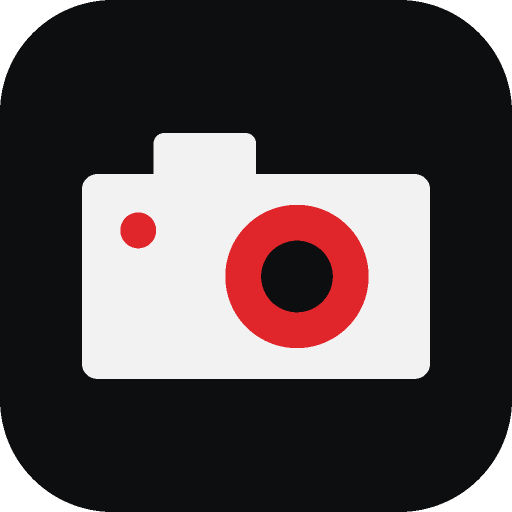
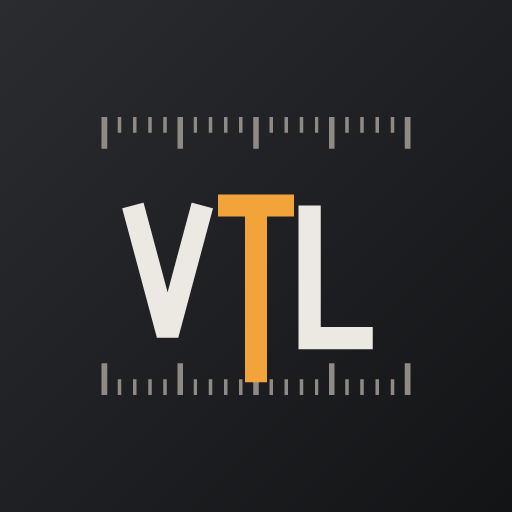
preview29

diff --git a/js/ui/brand.js b/js/ui/brand.js
@@ -1,0 +1,59 @@
+// The VidTooList brand, drawn as a cine lens: the name sits between a focus scale above and an iris
+// ring below. VID's I is the amber focus witness line reaching up to the focus scale; LIST's I is turned
+// over, its dot below, reaching down to the iris ring; the double O is the ∞ engraved on a focus ring.
+// The app icon (V2) is the initials VTL in the same language, the T the witness line between the scales.
+
+// The engraved ∞: a lemniscate that crosses in the middle (two touching rings read as spectacles).
+const LEM = (() => {
+  const p = [];
+  for (let i = 0; i <= 72; i++) {
+    const t = (i / 72) * 2 * Math.PI, d = 1 + Math.sin(t) ** 2;
+    p.push(`${(12 + (11 * Math.cos(t)) / d).toFixed(2)} ${(6 + (13.75 * Math.sin(t) * Math.cos(t)) / d).toFixed(2)}`);
+  }
+  return `M${p.join(' L')}Z`;
+})();
+const inf = (cx, cy, w, sw, attrs) => {
+  const k = w / 22;
+  return `<path transform="translate(${(cx - 12 * k).toFixed(2)} ${(cy - 6 * k).toFixed(2)}) scale(${k.toFixed(3)})" d="${LEM}" fill="none" stroke-width="${(sw / k).toFixed(3)}" stroke-linejoin="round" ${attrs}/>`;
+};
+// a straight scale: a tick every `step`, a long one every fifth
+const ticks = (x0, x1, y, step, h, hMaj, dir, attrs) => {
+  let s = '';
+  for (let n = 0, x = x0; x <= x1 + 0.01; x += step, n++) {
+    const len = n % 5 === 0 ? hMaj : h;
+    s += `<line x1="${x.toFixed(1)}" y1="${y}" x2="${x.toFixed(1)}" y2="${y + dir * len}" stroke-width="${n % 5 === 0 ? 1.8 : 1.1}" ${attrs}/>`;
+  }
+  return s;
+};
+
+const F = `font-family="'Barlow Condensed', sans-serif" font-weight="500" font-size="54" text-anchor="middle"`;
+const letter = (x, ch) => `<text x="${x}" y="58" ${F} class="wm-ink">${ch}</text>`;
+
+// The wordmark for the top bar, 300×76. Colours come from the page (class names, see style.css).
+export function wordmark(label = 'VidTooList') {
+  return `<svg class="wmk" viewBox="0 0 300 76" role="img" aria-label="${label}">`
+    + `<g class="wm-tick">${ticks(4, 296, 2, 5.84, 5, 9, 1, '')}${ticks(4, 296, 74, 5.84, 5, 9, -1, '')}</g>`
+    + letter(16, 'V') + letter(70, 'D') + letter(100, 'T')
+    + inf(152, 39, 50, 3.2, 'class="wm-inf"')
+    + letter(204, 'L') + letter(254, 'S') + letter(282, 'T')
+    // VID's I: the focus witness line, dot on top, reaching the focus scale
+    + `<g class="wm-acc"><rect x="41.6" y="18" width="5" height="40"/><rect x="43.1" y="2" width="2" height="12"/><circle cx="44.1" cy="12.5" r="3.4"/>`
+    // LIST's I, turned over: dot below, reaching the iris ring
+    + `<rect x="226.4" y="20" width="5" height="40"/><circle cx="228.9" cy="65" r="3.4"/><rect x="227.9" y="66" width="2" height="8"/></g>`
+    + '</svg>';
+}
+
+// The app icon (V2), on a 120 box: VTL between the scales, the amber T crossing from one to the other.
+// `inset` shrinks the drawing toward the centre so it survives a maskable crop.
+export function iconSVG({ size = 512, inset = 0.74, bg = true } = {}) {
+  const fg = '#ECE9E2', mut = '#8f8b84', amber = '#F2A33A';
+  return `<svg xmlns="http://www.w3.org/2000/svg" width="${size}" height="${size}" viewBox="0 0 120 120">`
+    + (bg ? '<defs><linearGradient id="g" x1="0" y1="0" x2="1" y2="1"><stop offset="0" stop-color="#2a2c30"/><stop offset="1" stop-color="#131416"/></linearGradient></defs><rect width="120" height="120" fill="url(#g)"/>' : '')
+    + `<g transform="translate(60 60) scale(${inset}) translate(-60 -60)">`
+    + ticks(12, 108, 16, 4.8, 5, 10, 1, `stroke="${mut}"`)
+    + ticks(12, 108, 104, 4.8, 5, 10, -1, `stroke="${mut}"`)
+    + `<path d="M21 44 L32 85 L43 44" fill="none" stroke="${fg}" stroke-width="7" stroke-linejoin="bevel"/>`
+    + `<path d="M77 44 V86 H97" fill="none" stroke="${fg}" stroke-width="7" stroke-linejoin="miter"/>`
+    + `<path d="M48 44 H72 M60 44 V100" fill="none" stroke="${amber}" stroke-width="7"/>`
+    + '</g></svg>';
+}

diff --git a/sw.js b/sw.js
@@ -1,11 +1,11 @@
-const VERSION = 'v2.11.0-preview28';
+const VERSION = 'v2.11.0-preview29';
 const SHELL = `camlist-shell-${VERSION}`;
 const IMAGES = 'camlist-images';
 const ASSETS = [
   './', './index.html', './css/style.css', './css/skins.css', './js/skins.js', './manifest.json', './data/catalog.json',
   './js/app.js', './js/store.js', './js/catalog.js', './js/list.js', './js/i18n.js', './js/brands.js',
   './js/export-text.js', './js/export-xlsx.js', './js/export-docx.js', './js/export-print.js',
-  './js/ui/dom.js', './js/ui/projects.js', './js/ui/list.js', './js/ui/catalog.js', './js/ui/export.js', './logos/index.json', './js/compat.js', './js/lens.js', './js/recency.js', './data/releases.json', './js/ui/icons-dept.js', './js/ui/icons.js', './data/compat.json', './data/extra.json', './js/power.js', './data/power.json', './js/format.js', './data/codecs.json', './data/luts.json', './data/places.json',
+  './js/ui/dom.js', './js/ui/projects.js', './js/ui/brand.js', './js/ui/list.js', './js/ui/catalog.js', './js/ui/export.js', './logos/index.json', './js/compat.js', './js/lens.js', './js/recency.js', './data/releases.json', './js/ui/icons-dept.js', './js/ui/icons.js', './data/compat.json', './data/extra.json', './js/power.js', './data/power.json', './js/format.js', './data/codecs.json', './data/luts.json', './data/places.json',
   './js/ui/tools.js', './js/ui/tools/strings.js', './js/ui/tools/shared.js', './js/ui/tools/media.js', './js/ui/tools/fov.js', './js/ui/tools/shutter.js', './js/ui/tools/offload.js', './js/ui/tools/sun.js', './js/ui/tools/luts.js', './js/ui/tools/hours.js', './js/ui/tools/units.js', './js/ui/tools/downloads.js', './js/ui/tools/slate.js', './js/ui/tools/iso.js', './data/iso.json', './js/install.js', './js/ui/viewfinder.js', './js/feel.js', './js/stores.js', './data/downloads.json', './data/downloads-watch.json', './js/ui/product.js', './js/home.js', './js/layout.js', './js/tools/media.js', './js/tools/shutter.js', './js/tools/fov.js', './js/tools/solar.js', './js/tools/timecode.js', './js/tools/convert.js', './js/accessory.js', './js/companions.js', './js/gearkits.js', './js/kitalloc.js', './js/accassign.js',
   './vendor/xlsx.full.min.js', './vendor/docx.umd.js',
   './icons/icon.svg', './icons/icon-192.png', './icons/icon-512.png', './icons/icon-180.png',

diff --git a/js/ui/projects.js b/js/ui/projects.js
@@ -7,6 +7,7 @@ import { hm } from '../format.js';
 import { S, D } from './tools/shared.js';
 import { deptIcon, toolIcon } from './icons.js';
 import { toolLabel } from './tools.js';
+import { wordmark } from './brand.js';
 
 // The role switch: 1st AC / focus puller / DP. A hidden field carries the choice into the form.
 export const roleSwitch = (t, role = 'ac', name = 'role') => `<div class="role-switch"><span>${t('role_label')}</span><div class="seg" role="radiogroup">${ROLES.map(r => `<button type="button" class="${(role || 'ac') === r ? 'active' : ''}" data-role="${r}" role="radio" aria-checked="${(role || 'ac') === r}">${t(roleKey(r))}</button>`).join('')}</div><input type="hidden" name="${name}" value="${role || 'ac'}"></div>`;
@@ -97,7 +98,7 @@ export function render(ctx, _params, root) {
   const projects = store.state.projects;
   const lang = ctx.lang();
   const locale = lang === 'he' ? 'he-IL' : 'en-GB';
-  ctx.setTopbar({ title: `<span class="brandmark" role="img" aria-label="VidTooList">VIDT<b><svg class="inf" viewBox="0 0.4 24 11.2" aria-hidden="true"><path d="M23.00 6.00 L22.88 7.18 L22.52 8.28 L21.96 9.22 L21.25 9.96 L20.46 10.47 L19.62 10.76 L18.78 10.86 L17.96 10.79 L17.19 10.58 L16.46 10.27 L15.78 9.87 L15.14 9.40 L14.55 8.89 L14.00 8.35 L13.47 7.78 L12.97 7.19 L12.48 6.60 L12.00 6.00 L11.52 5.40 L11.03 4.81 L10.53 4.22 L10.00 3.65 L9.45 3.11 L8.86 2.60 L8.22 2.13 L7.54 1.73 L6.81 1.42 L6.04 1.21 L5.22 1.14 L4.38 1.24 L3.54 1.53 L2.75 2.04 L2.04 2.78 L1.48 3.72 L1.12 4.82 L1.00 6.00 L1.12 7.18 L1.48 8.28 L2.04 9.22 L2.75 9.96 L3.54 10.47 L4.38 10.76 L5.22 10.86 L6.04 10.79 L6.81 10.58 L7.54 10.27 L8.22 9.87 L8.86 9.40 L9.45 8.89 L10.00 8.35 L10.53 7.78 L11.03 7.19 L11.52 6.60 L12.00 6.00 L12.48 5.40 L12.97 4.81 L13.47 4.22 L14.00 3.65 L14.55 3.11 L15.14 2.60 L15.78 2.13 L16.46 1.73 L17.19 1.42 L17.96 1.21 L18.78 1.14 L19.62 1.24 L20.46 1.53 L21.25 2.04 L21.96 2.78 L22.52 3.72 L22.88 4.82 L23.00 6.00Z"/></svg></b>LIST</span>`, right: [{ icon: icons.gear, onClick: () => ctx.navigate('#/settings'), label: t('settings') }] });
+  ctx.setTopbar({ title: `<span class="brandmark">${wordmark()}</span>`, right: [{ icon: icons.gear, onClick: () => ctx.navigate('#/settings'), label: t('settings') }] });
 
   const active = activeProject(projects);
   let hero = '';

diff --git a/css/style.css b/css/style.css
@@ -1564,3 +1564,13 @@ button.pst:active { transform: scale(.97); }
 /* VidTooList: the double O is the focus ring's infinity mark */
 .inf { display: inline-block; width: 1.25em; height: .6em; fill: none; stroke: currentColor; stroke-width: 2.3; stroke-linejoin: round; stroke-linecap: round; vertical-align: .02em; margin: 0 .03em; }
 .print .inf { stroke-width: 2; }
+
+/* The VidTooList wordmark (js/ui/brand.js): engraved letters between a focus scale and an iris ring */
+.brandmark:has(.wmk)::before { content: none !important; }
+.wmk { display: block; height: 40px; width: auto; overflow: visible; }
+.wmk .wm-ink { fill: var(--text); }
+.wmk .wm-tick line { stroke: var(--text-3); }
+.wmk .wm-inf { stroke: var(--accent); }
+.wmk .wm-acc { fill: var(--accent); }
+:root[data-theme="sun"] .wmk .wm-inf { stroke: var(--text); }
+:root[data-theme="sun"] .wmk .wm-acc { fill: var(--accent-ink); }

diff --git a/apps/downloads/sw.js b/apps/downloads/sw.js
@@ -1,6 +1,6 @@
 // VidTooList Downloads works offline after the first visit: every same-origin file is fetched fresh when
 // the network is there and kept, and served from the cache when it is not (on set, signal comes and goes).
-const VERSION = 'downloads-v1-p28';
+const VERSION = 'downloads-v1-p29';
 self.addEventListener('install', () => self.skipWaiting());
 self.addEventListener('activate', (e) => {
   e.waitUntil(caches.keys().then(keys => Promise.all(keys.filter(k => k.startsWith('downloads-') && k !== VERSION).map(k => caches.delete(k)))).then(() => self.clients.claim()));

diff --git a/apps/offload/sw.js b/apps/offload/sw.js
@@ -1,6 +1,6 @@
 // VidTooList Offload works offline after the first visit: every same-origin file is fetched fresh when
 // the network is there and kept, and served from the cache when it is not (on set, signal comes and goes).
-const VERSION = 'offload-v1-p28';
+const VERSION = 'offload-v1-p29';
 self.addEventListener('install', () => self.skipWaiting());
 self.addEventListener('activate', (e) => {
   e.waitUntil(caches.keys().then(keys => Promise.all(keys.filter(k => k.startsWith('offload-') && k !== VERSION).map(k => caches.delete(k)))).then(() => self.clients.claim()));

diff --git a/apps/shutter/sw.js b/apps/shutter/sw.js
@@ -1,6 +1,6 @@
 // VidTooList Shutter works offline after the first visit: every same-origin file is fetched fresh when
 // the network is there and kept, and served from the cache when it is not (on set, signal comes and goes).
-const VERSION = 'shutter-v1-p28';
+const VERSION = 'shutter-v1-p29';
 self.addEventListener('install', () => self.skipWaiting());
 self.addEventListener('activate', (e) => {
   e.waitUntil(caches.keys().then(keys => Promise.all(keys.filter(k => k.startsWith('shutter-') && k !== VERSION).map(k => caches.delete(k)))).then(() => self.clients.claim()));

diff --git a/apps/hours/sw.js b/apps/hours/sw.js
@@ -1,6 +1,6 @@
 // VidTooList Hours works offline after the first visit: every same-origin file is fetched fresh when
 // the network is there and kept, and served from the cache when it is not (on set, signal comes and goes).
-const VERSION = 'hours-v1-p28';
+const VERSION = 'hours-v1-p29';
 self.addEventListener('install', () => self.skipWaiting());
 self.addEventListener('activate', (e) => {
   e.waitUntil(caches.keys().then(keys => Promise.all(keys.filter(k => k.startsWith('hours-') && k !== VERSION).map(k => caches.delete(k)))).then(() => self.clients.claim()));

diff --git a/apps/media/sw.js b/apps/media/sw.js
@@ -1,6 +1,6 @@
 // VidTooList Media works offline after the first visit: every same-origin file is fetched fresh when
 // the network is there and kept, and served from the cache when it is not (on set, signal comes and goes).
-const VERSION = 'media-v1-p28';
+const VERSION = 'media-v1-p29';
 self.addEventListener('install', () => self.skipWaiting());
 self.addEventListener('activate', (e) => {
   e.waitUntil(caches.keys().then(keys => Promise.all(keys.filter(k => k.startsWith('media-') && k !== VERSION).map(k => caches.delete(k)))).then(() => self.clients.claim()));

diff --git a/apps/slate/sw.js b/apps/slate/sw.js
@@ -1,6 +1,6 @@
 // VidTooList Slate works offline after the first visit: every same-origin file is fetched fresh when
 // the network is there and kept, and served from the cache when it is not (on set, signal comes and goes).
-const VERSION = 'slate-v1-p28';
+const VERSION = 'slate-v1-p29';
 self.addEventListener('install', () => self.skipWaiting());
 self.addEventListener('activate', (e) => {
   e.waitUntil(caches.keys().then(keys => Promise.all(keys.filter(k => k.startsWith('slate-') && k !== VERSION).map(k => caches.delete(k)))).then(() => self.clients.claim()));

diff --git a/apps/units/sw.js b/apps/units/sw.js
@@ -1,6 +1,6 @@
 // VidTooList Units works offline after the first visit: every same-origin file is fetched fresh when
 // the network is there and kept, and served from the cache when it is not (on set, signal comes and goes).
-const VERSION = 'units-v1-p28';
+const VERSION = 'units-v1-p29';
 self.addEventListener('install', () => self.skipWaiting());
 self.addEventListener('activate', (e) => {
   e.waitUntil(caches.keys().then(keys => Promise.all(keys.filter(k => k.startsWith('units-') && k !== VERSION).map(k => caches.delete(k)))).then(() => self.clients.claim()));

diff --git a/lens/sw.js b/lens/sw.js
@@ -1,6 +1,6 @@
 // VidTooList Lens works offline after the first visit: every same-origin file is fetched fresh when the
 // network is there and kept, and served from the cache when it is not (on set, signal comes and goes).
-const VERSION = 'lens-v1-p28';
+const VERSION = 'lens-v1-p29';
 self.addEventListener('install', () => self.skipWaiting());
 self.addEventListener('activate', (e) => {
   e.waitUntil(caches.keys().then(keys => Promise.all(keys.filter(k => k.startsWith('lens-') && k !== VERSION).map(k => caches.delete(k)))).then(() => self.clients.claim()));
